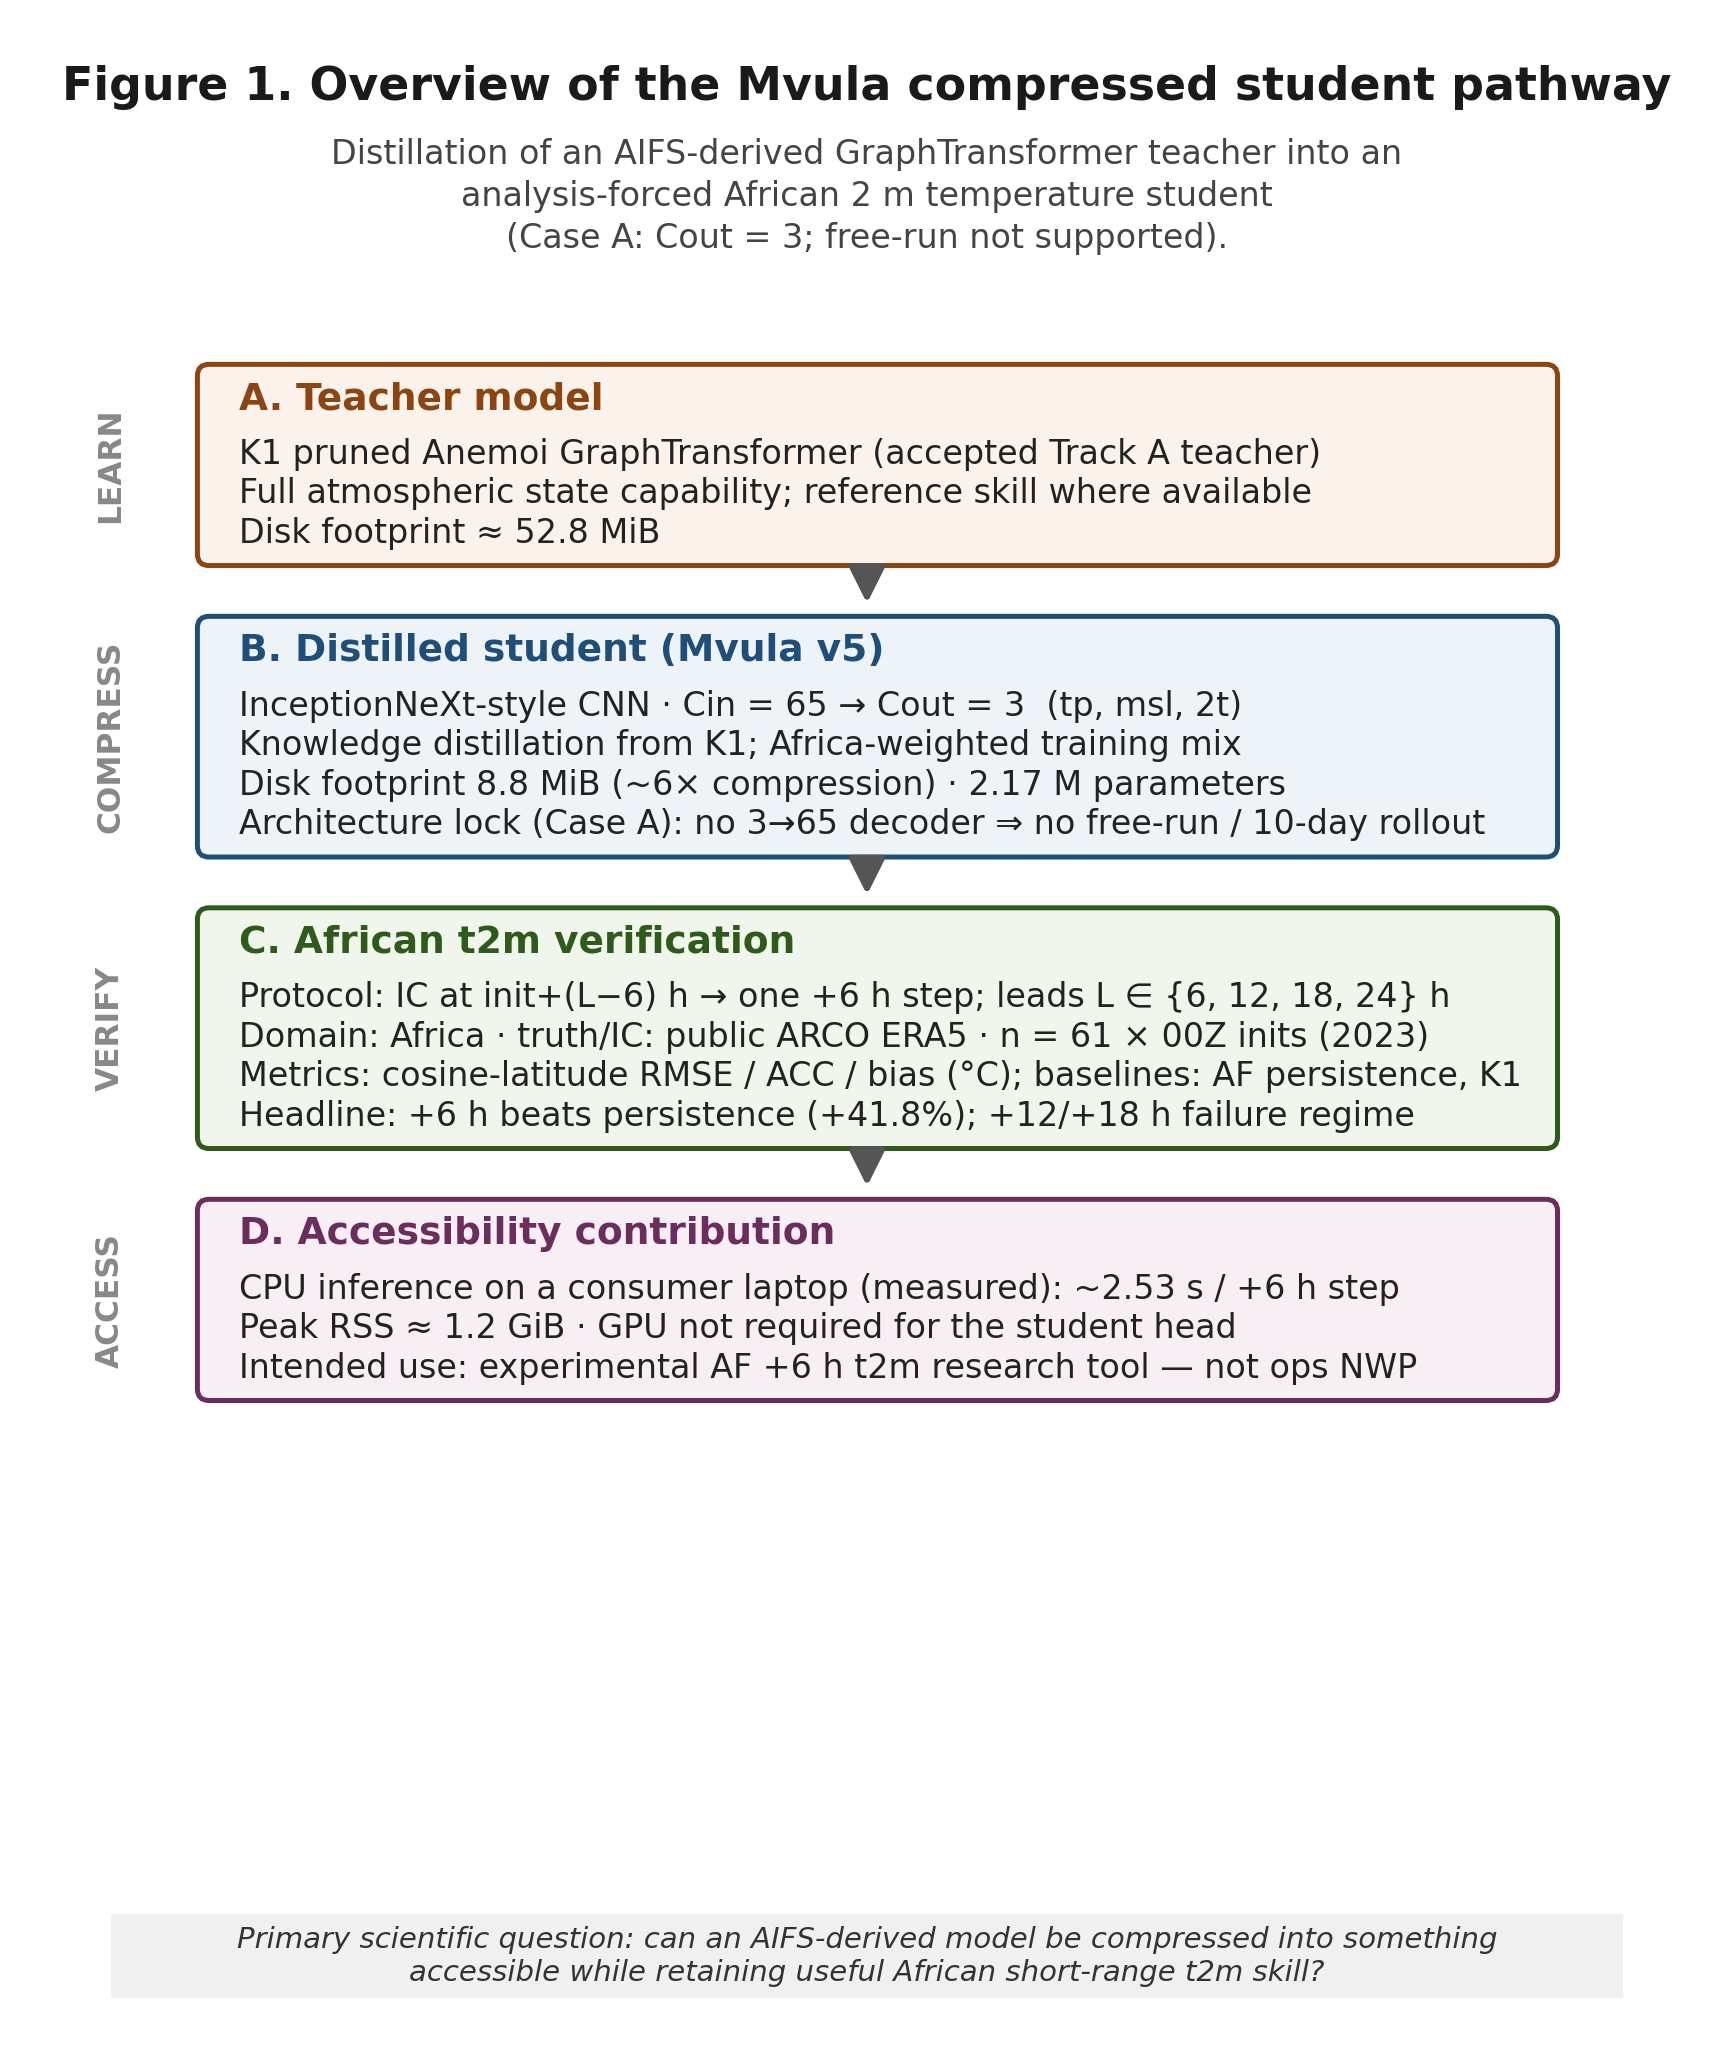
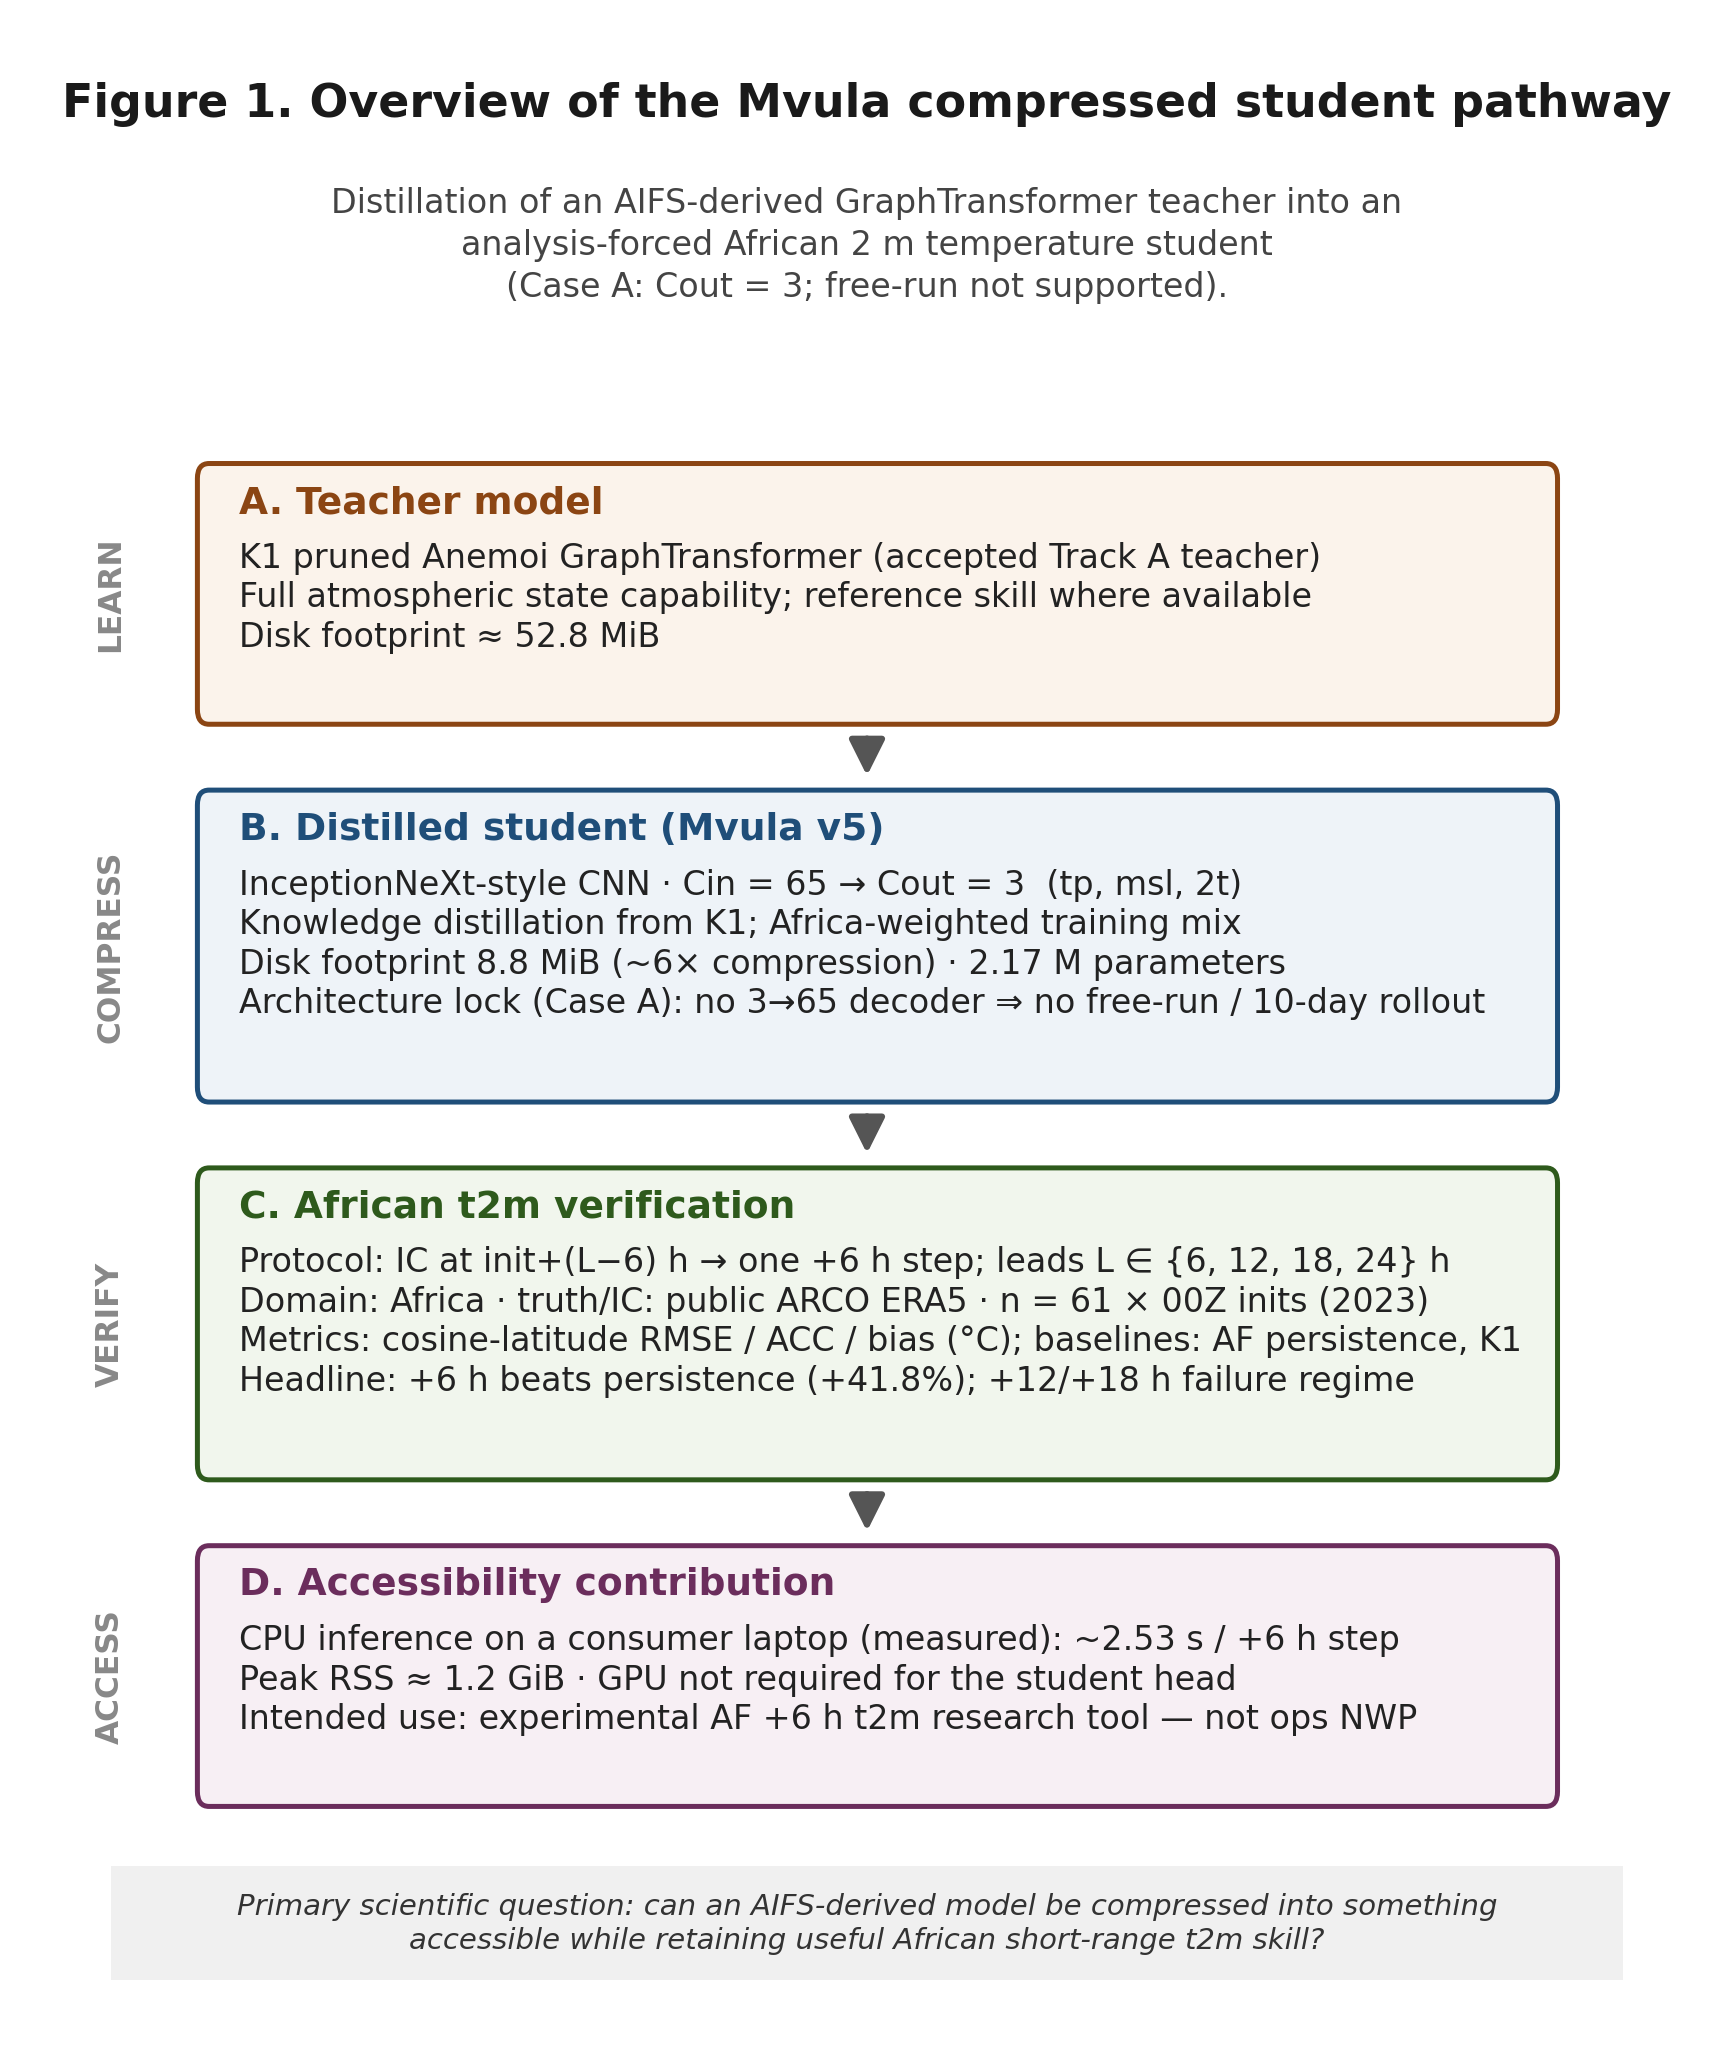
Pull Fig.1 scientific-question footer up under panel D.
Removes the large empty gap that left the footer visually isolated.

diff --git a/scripts/plot_mvula_report_fig02_fig03.py b/scripts/plot_mvula_report_fig02_fig03.py
@@ -342,10 +342,17 @@ def fig1_pipeline_publication() -> None:
         prev_box_bot = box_bot
         y_cursor = box_bot - arrow_gap
 
-    ax.add_patch(Rectangle((0.35, 0.08), 6.5, 0.36, facecolor="#f0f0f0", edgecolor="none", zorder=0))
+    # Footer sits just under panel D (not pinned to the axes origin)
+    footer_gap = 0.20
+    footer_h = 0.38
+    footer_top = prev_box_bot - footer_gap
+    footer_bot = footer_top - footer_h
+    ax.add_patch(
+        Rectangle((0.35, footer_bot), 6.5, footer_h, facecolor="#f0f0f0", edgecolor="none", zorder=0)
+    )
     ax.text(
         3.6,
-        0.26,
+        footer_bot + footer_h / 2,
         "Primary scientific question: can an AIFS-derived model be compressed into something\n"
         "accessible while retaining useful African short-range t2m skill?",
         ha="center",
@@ -356,6 +363,7 @@ def fig1_pipeline_publication() -> None:
         linespacing=1.25,
         zorder=1,
     )
+    ax.set_ylim(footer_bot - 0.12, 8.6)
 
     fig.savefig(OUT1_PUB, dpi=300, bbox_inches="tight", facecolor="white")
     plt.close(fig)
